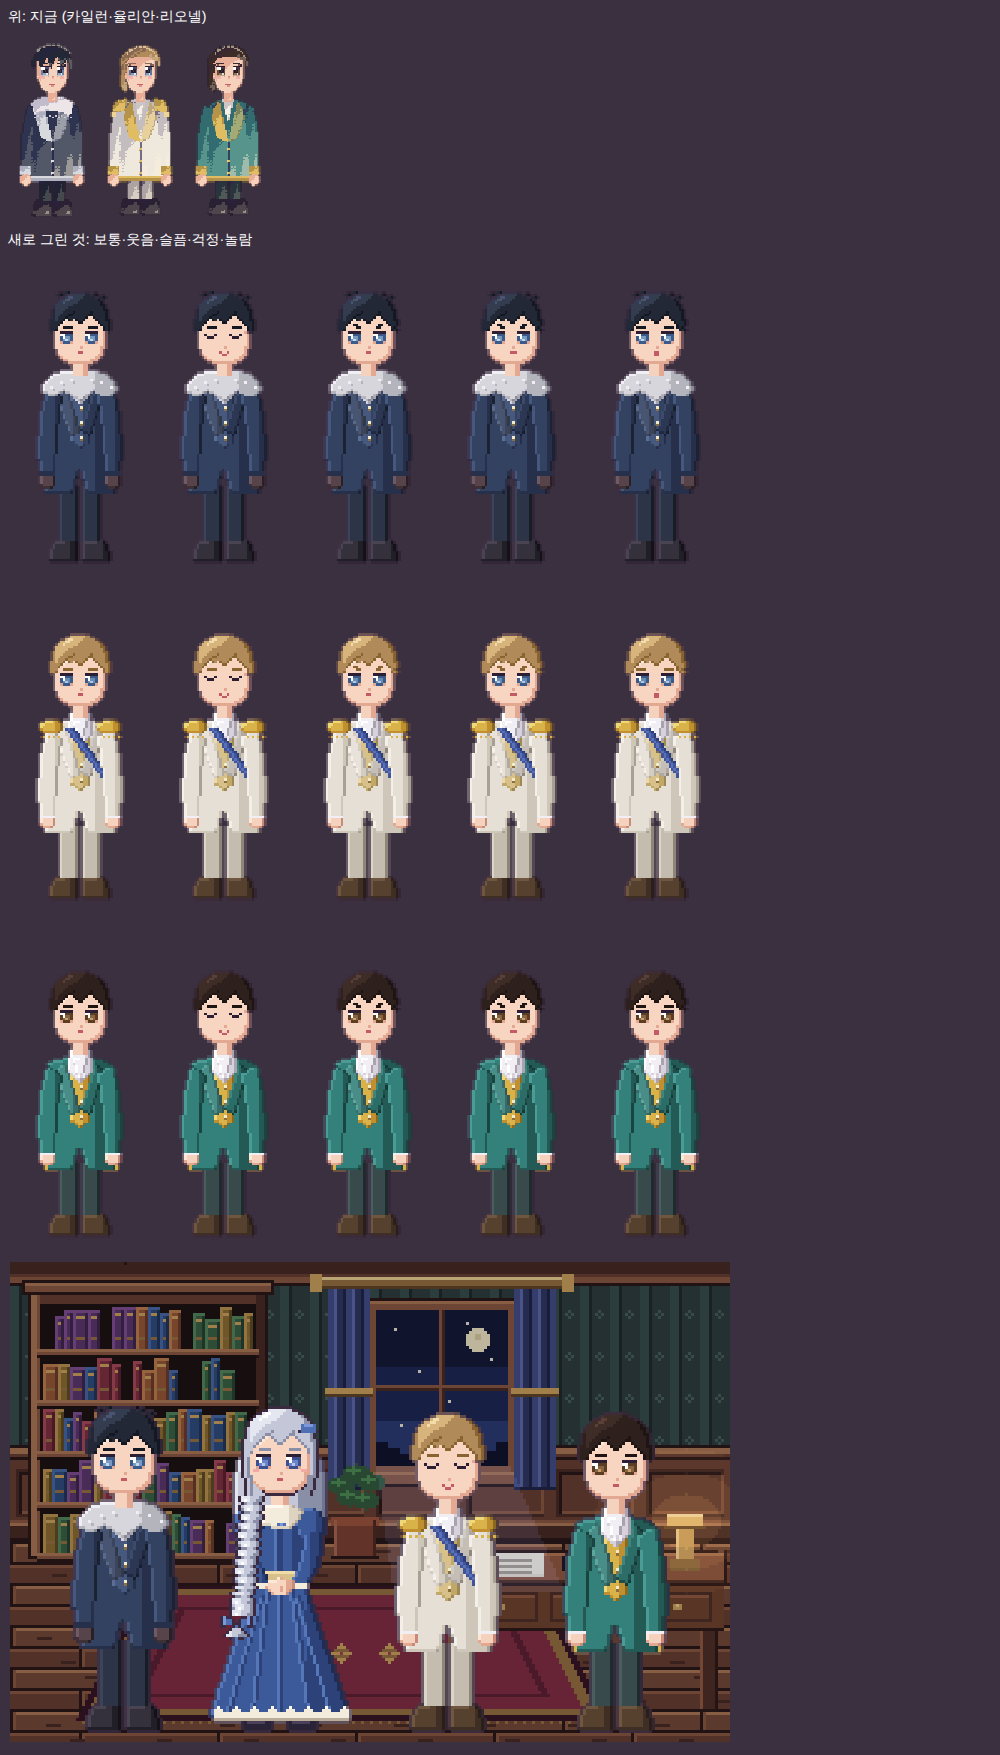
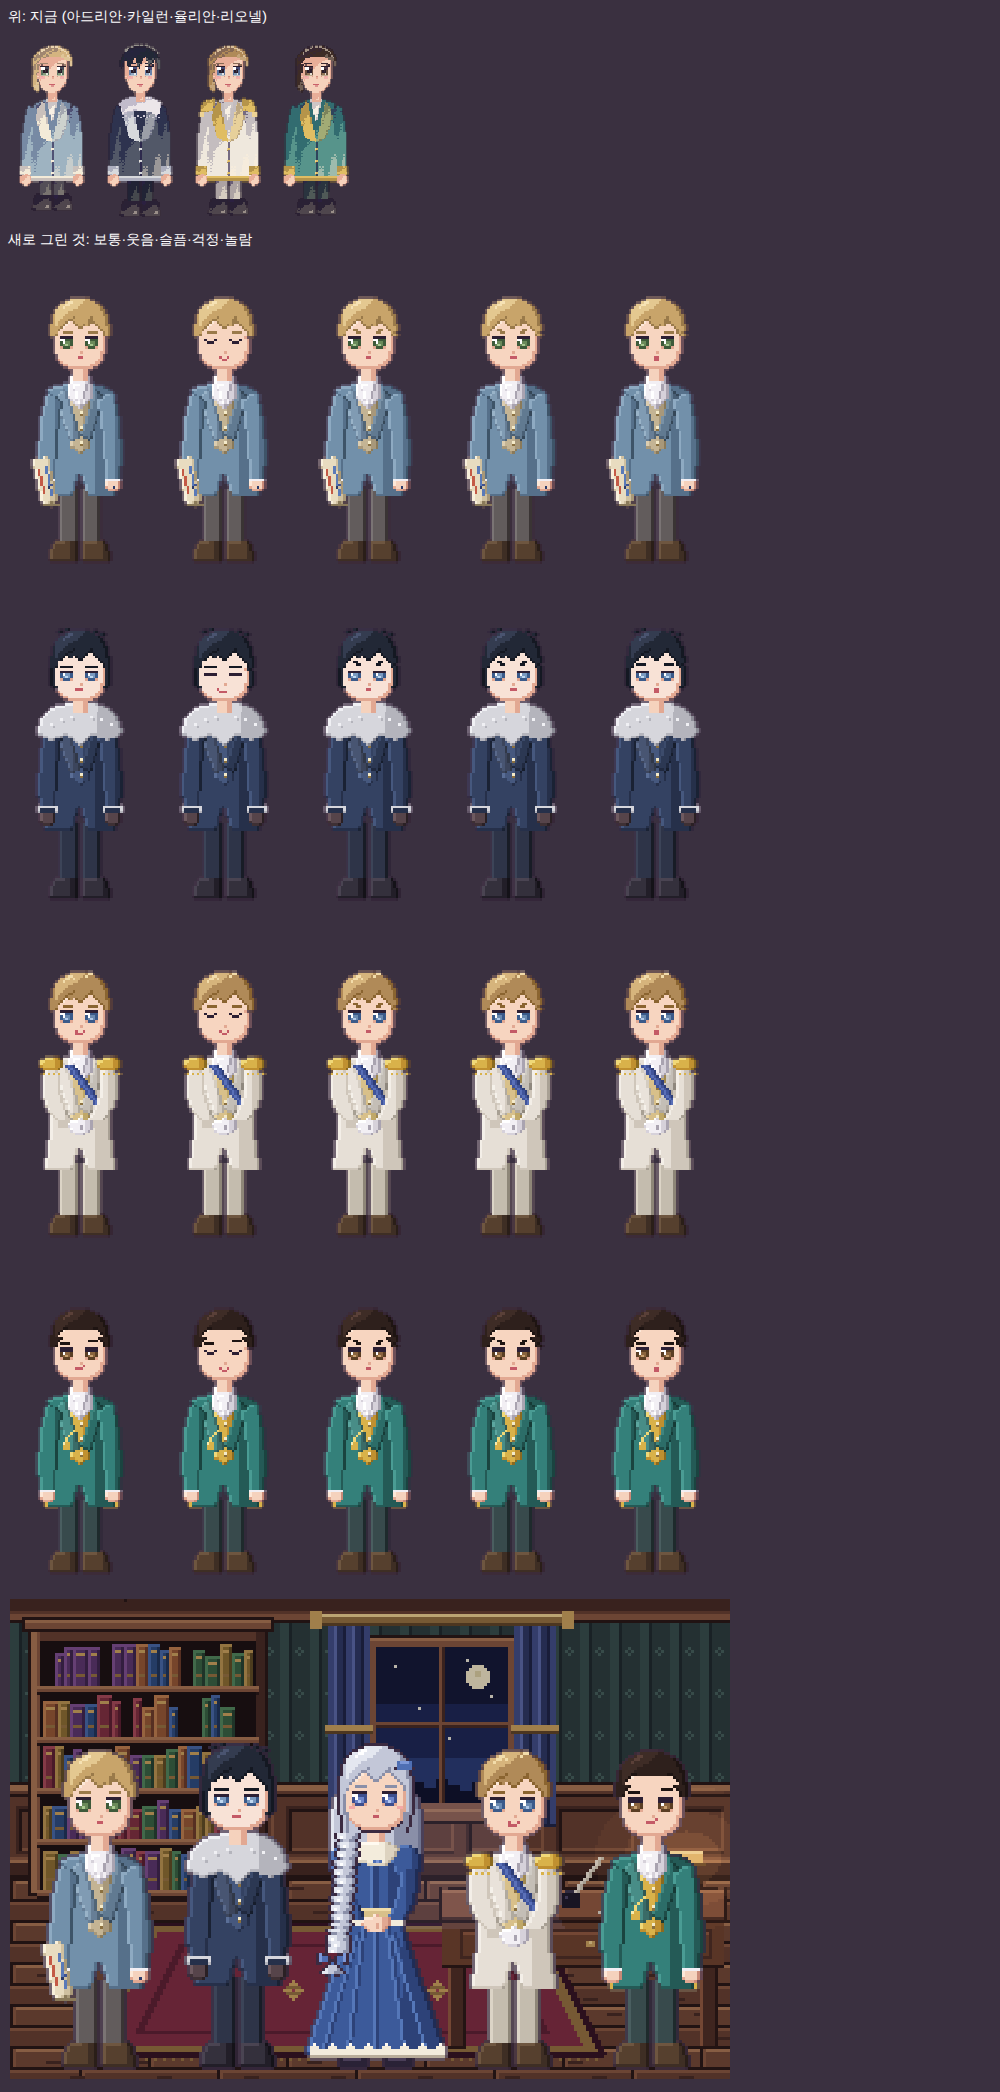
새 그림체: 소년들 얼굴·특징 차이 (카일런·율리안·리오넬·아드리안, wip)
Claude-Session: https://claude.ai/code/session_01NzQUDDCoPt1Z4eH1vzoWiG

diff --git a/wip/more3.js b/wip/more3.js
@@ -75,14 +75,35 @@ function femSprite(id,expr){ const cfg=FEM_FIG[id]; const o=PX(56,132); femBody(
 // ── 소년들: 아이 얼굴 지도(아델라인 것) + 짧은 머리, 외투. 아드리안·카일런·율리안·리오넬
 const BOY_FIG={
  adrian:{hair:['#9a7a4a','#c8a46a','#e4c890','#f6e2b4'],eye:['#3e5a3a','#6a8a5a','#a8c890'],lock:'r',
-   coat:['#3e5468','#56708a','#7290aa','#8eaac2','#b0c8da'],vest:['#8a7a5a','#a8987a','#c4b494','#dccdb0'],pants:['#3a3434','#4e4848','#625c5c','#7a7474'],boots:['#2a1e18','#3e2e24','#56402e','#6e5640'],btn:'#e8d6a8',ink:true},
+   coat:['#3e5468','#56708a','#7290aa','#8eaac2','#b0c8da'],vest:['#8a7a5a','#a8987a','#c4b494','#dccdb0'],pants:['#3a3434','#4e4848','#625c5c','#7a7474'],boots:['#2a1e18','#3e2e24','#56402e','#6e5640'],btn:'#e8d6a8',ink:true,map:true},
  kylen:{hair:['#141822','#222836','#343c50','#4a5470'],eye:['#3a5a8a','#7a9ac0','#c0d8f0'],lock:'l',tuft:true,
-   coat:['#1a2234','#26304a','#344262','#46587e','#5a6e96'],vest:['#26304a','#344262','#46587e','#5a6e96'],pants:['#181c26','#22283a','#2e3448','#3c4458'],boots:['#141218','#221e28','#34303c','#4a4452'],btn:'#b8c0d0',fur:['#8a8a94','#b4b4bc','#d6d6dc','#f0f0f4'],gloves:['#2a2024','#3e3034','#56444a','#6e5a60']},
+   coat:['#1a2234','#26304a','#344262','#46587e','#5a6e96'],vest:['#26304a','#344262','#46587e','#5a6e96'],pants:['#181c26','#22283a','#2e3448','#3c4458'],boots:['#141218','#221e28','#34303c','#4a4452'],btn:'#b8c0d0',fur:['#8a8a94','#b4b4bc','#d6d6dc','#f0f0f4'],gloves:['#2a2024','#3e3034','#56444a','#6e5a60'],face:'kylen',skin:'#f8e2d6',sidehair:true},
  julian:{hair:['#8a6430','#b08a58','#d6b47c','#f2dcaa'],eye:['#3a5a8a','#6a8ab0','#b0c8e8'],lock:'l',
-   coat:['#a8a094','#cfc6ba','#e6dfd6','#f4efe8','#ffffff'],vest:['#a08850','#c0a868','#d8c08a','#ecd8a8'],pants:['#8e8678','#aaa294','#c4bcae','#dcd4c6'],boots:['#2a1e18','#3e2e24','#56402e','#6e5640'],btn:'#d9b24a',epaulet:['#8a6a20','#c09030','#d9b24a','#f0d878'],sash:['#2e3e78','#40549a','#5a70b8']},
+   coat:['#a8a094','#cfc6ba','#e6dfd6','#f4efe8','#ffffff'],vest:['#a08850','#c0a868','#d8c08a','#ecd8a8'],pants:['#8e8678','#aaa294','#c4bcae','#dcd4c6'],boots:['#2a1e18','#3e2e24','#56402e','#6e5640'],btn:'#d9b24a',epaulet:['#8a6a20','#c09030','#d9b24a','#f0d878'],sash:['#2e3e78','#40549a','#5a70b8'],face:'julian',clasp:true,curl:true},
  lionel:{hair:['#1e1412','#2e201c','#3e2c26','#5a4038'],eye:['#5a3e24','#8a643e','#c8a070'],lock:'none',
-   coat:['#1a4440','#245a56','#34807a','#4a9c94','#6ab8ae'],vest:['#8a6a20','#c09030','#d9b24a','#f0d878'],pants:['#1e2a2c','#2a3a3c','#384a4c','#4a5e60'],boots:['#2a1e18','#3e2e24','#56402e','#6e5640'],btn:'#d9b24a',trim:'#d9b24a'}
+   coat:['#1a4440','#245a56','#34807a','#4a9c94','#6ab8ae'],vest:['#8a6a20','#c09030','#d9b24a','#f0d878'],pants:['#1e2a2c','#2a3a3c','#384a4c','#4a5e60'],boots:['#2a1e18','#3e2e24','#56402e','#6e5640'],btn:'#d9b24a',trim:'#d9b24a',face:'lionel',chain:true}
 };
+// 얼굴 차이: 눈(16~20행, 두 눈 같은 무늬), 눈썹(13~15행), 입(23~25행)
+function eyeRows(rows,m){ for(const j in m){ const r=rows[j].split(''); for(let i=0;i<5;i++){ r[6+i]=m[j][i]; r[16+i]=m[j][i]; } rows[j]=r.join(''); } }
+function setAt(rows,j,col,str){ rows[j]=rows[j].slice(0,col)+str+rows[j].slice(col+str.length); }
+function boyFace(rows,who,expr){
+  const closed=expr==='smile';
+  if(who==='kylen'){   // 가늘고 낮은 눈, 곧은 눈썹, 다문 입
+    if(!closed) eyeRows(rows,{16:'SSSSS',17:'eeeee',18:'bwBBb',19:'bBcBb',20:'sbbbs'});
+    else eyeRows(rows,{16:'SSSSS',17:'SSSSS',18:'eeeee',19:'SSSSS',20:'SSSSS'});
+    if(expr==='neutral'||expr==='smile'){ setAt(rows,13,5,'SSSSSSSSSSSSSSSSS'); setAt(rows,14,5,'SSSSSSSSSSSSSSSSSS'); setAt(rows,15,6,'hhhhh'); setAt(rows,15,16,'hhhhh'); }
+    if(expr==='neutral') setAt(rows,24,12,'mmm');
+    if(expr==='smile'){ setAt(rows,24,10,'SSSSSSSS'); setAt(rows,25,12,'mmm'); setAt(rows,24,11,'m'); }
+  }
+  if(who==='julian'){  // 높은 눈썹, 늘 웃는 듯한 입
+    if(expr==='neutral'){ setAt(rows,24,11,'SmSSmS'); setAt(rows,25,12,'mmm'); }
+  }
+  if(who==='lionel'){  // 무거운 눈꺼풀, 한쪽 눈썹·입꼬리
+    if(!closed&&expr!=='surprise') eyeRows(rows,{16:'eeeee',17:'eeeee',18:'bwBBb',19:'bBcBb',20:'sbbbs'});
+    if(expr==='neutral'||expr==='smile'){ setAt(rows,14,5,'SSSSSSSSSSSSSSSSSS'); setAt(rows,14,6,'hhhh'); setAt(rows,13,17,'hhhh'); }
+    if(expr==='neutral'){ setAt(rows,24,12,'mmm'); setAt(rows,23,15,'m'); }
+  }
+}
 function boySprite(id,expr){
   const f=BOY_FIG[id]; const o=PX(56,132); const SK=['#c98a78','#e2a892','#f5d2bd','#fde8d8'], WH=['#a9a3b0','#d6d1da','#f2eff4','#ffffff'];
   const C=f.coat, PT=f.pants, fy=124, BT=f.boots;
@@ -95,21 +116,27 @@ function boySprite(id,expr){
   celPath(o,'M24 32 L32 32 L33 40 L28 45 L23 40 Z',WH); celPath(o,'M25 35 L31 35 L30 40 L28 45 L26 40 Z',WH);
   celPath(o,'M22 37 L28 56 L24 58 L18 41 Z',C.map(c=>mix(c,'#ffffff',.1))); celPath(o,'M34 37 L28 56 L32 58 L38 41 Z',C.map(c=>mix(c,'#000000',.15)));
   [[18,48],[18,58],[38,48],[38,58]].forEach(p=>o.p(p[0],p[1],f.btn));
-  if(f.sash){ for(let k=0;k<22;k++){ const x=22+Math.round(k*.75), y=38+k; o.p(x,y,f.sash[1]); o.p(x+1,y,f.sash[2]); o.p(x+2,y,f.sash[1]); o.p(x+3,y,f.sash[0]); } }
-  celPath(o,'M15 38 C11 50 11 64 12 78 L18 78 C18 66 19 52 21 42 Z',C); celPath(o,'M41 38 C45 50 45 64 44 78 L38 78 C38 66 37 52 35 42 Z',C);
+  if(f.sash){ for(let k=0;k<17;k++){ const x=22+Math.round(k*.75), y=38+k; o.p(x,y,f.sash[1]); o.p(x+1,y,f.sash[2]); o.p(x+2,y,f.sash[1]); o.p(x+3,y,f.sash[0]); } }
+  if(f.clasp){ celPath(o,'M15 38 C11 46 12 56 22 63 L26 61 C21 56 19 50 20 41 Z',C); celPath(o,'M41 38 C45 46 44 56 34 63 L30 61 C35 56 37 50 36 41 Z',C); }
+  else { celPath(o,'M15 38 C11 50 11 64 12 78 L18 78 C18 66 19 52 21 42 Z',C); celPath(o,'M41 38 C45 50 45 64 44 78 L38 78 C38 66 37 52 35 42 Z',C); }
   if(f.epaulet){ celPath(o,'M12 37 C14 34 19 34 21 37 L20 40 L13 40 Z',f.epaulet); celPath(o,'M44 37 C42 34 37 34 35 37 L36 40 L43 40 Z',f.epaulet);
     [13,15,17,19].forEach(x=>{ o.p(x,41,f.epaulet[2]); o.p(56-x,41,f.epaulet[2]); }); }
-  if(f.fur){ celPath(o,'M13 40 C14 33 21 31 28 33 C35 31 42 33 43 40 C40 43 36 42 34 40 L28 44 L22 40 C20 42 16 43 13 40 Z',f.fur);
+  if(f.fur){ celPath(o,'M11 42 C12 32 21 29 28 31 C35 29 44 32 45 42 C41 46 36 45 34 42 L28 47 L22 42 C20 45 15 46 11 42 Z',f.fur); o.r(11,74,8,4,f.fur[2]); o.r(37,74,8,4,f.fur[2]); o.r(11,77,8,1,f.fur[1]); o.r(37,77,8,1,f.fur[1]);
     [[16,38],[20,36],[24,35],[32,35],[36,36],[40,38]].forEach(p=>{ o.p(p[0],p[1],f.fur[3]); o.p(p[0]+1,p[1]+1,f.fur[1]); }); }
-  if(f.gloves){ o.r(12,76,6,3,C[1]); o.r(38,76,6,3,C[1]); celPath(o,'M12 78 L18 78 L18 83 C17 86 13 86 12 83 Z',f.gloves); celPath(o,'M38 78 L44 78 L44 83 C43 86 39 86 38 83 Z',f.gloves); }
+  if(f.clasp){ o.r(19,60,5,3,C[1]); o.r(32,60,5,3,C[1]);
+    celPath(o,'M23 61 C25 59 31 59 33 61 C33 65 30 67 28 67 C26 67 23 65 23 61 Z',WH); o.p(28,62,WH[0]); o.p(28,63,WH[0]); o.p(30,61,WH[1]); }
+  else if(f.gloves){ o.r(12,76,6,3,C[1]); o.r(38,76,6,3,C[1]); celPath(o,'M12 78 L18 78 L18 83 C17 86 13 86 12 83 Z',f.gloves); celPath(o,'M38 78 L44 78 L44 83 C43 86 39 86 38 83 Z',f.gloves); }
   else { o.r(12,77,6,2,WH[2]); o.r(38,77,6,2,WH[2]);
     celPath(o,'M12 79 L18 79 L18 83 C17 86 13 86 12 83 Z',SK); celPath(o,'M38 79 L44 79 L44 83 C43 86 39 86 38 83 Z',SK); }
+  if(f.chain){ [[25,49],[24,50],[23,51],[22,52],[22,53],[23,54]].forEach(p=>o.p(p[0],p[1],'#f0d878')); o.r(21,54,3,3,'#d9b24a'); o.p(21,54,'#f8ecb0'); }
+  if(f.map){ celPath(o,'M9 66 L15 64 L19 92 L13 94 Z',['#a89878','#cfc0a0','#e8dcc0','#f8f0dc']); o.ell(16,93,3,1,'#8a7a5a'); o.line(11,72,13,86,'#c45a46'); o.line(14,70,16,88,'#5a7ab8'); }
   if(f.ink){ o.p(14,82,'#2a3a6a'); o.p(15,83,'#2a3a6a'); o.p(16,81,'#3e5290'); o.p(41,83,'#2a3a6a'); }   // 잉크 자국
   o.r(25,28,6,6,SK[2]); o.r(29,28,2,6,SK[1]);
   // 머리: 아델라인 얼굴 지도에서 옆머리·윤곽선을 걷어 내고 짧게
-  const pal=Object.assign({},ADE_PAL,{h:f.hair[0],H:f.hair[1],L:f.hair[2],W:f.hair[3],b:f.eye[0],B:f.eye[1],c:f.eye[2],r:'#f2b8aa'});
+  const pal=Object.assign({},ADE_PAL,{h:f.hair[0],H:f.hair[1],L:f.hair[2],W:f.hair[3],b:f.eye[0],B:f.eye[1],c:f.eye[2],r:'#f2b8aa'}); if(f.skin) pal.S=f.skin;
   const rows=ADE_HEAD.slice(); const ex=ADE_EXPR[expr]; if(ex) for(const k in ex) rows[k]=ex[k];
   rows[21]=rows[21].replace(/rr/g,'SS');
+  if(f.face) boyFace(rows,f.face,expr||'neutral');
   const face=/[SsKebBcwrm]/;
   const out=rows.map((row,j)=>{ let r=row.replace(/O/g,'.'); if(j<16) return r;
     const a=r.search(face); let z=-1; for(let i=r.length-1;i>=0;i--) if(face.test(r[i])){ z=i; break; }
@@ -118,7 +145,10 @@ function boySprite(id,expr){
   // 앞머리 한 갈래
   if(f.lock==='r'){ out[10]=out[10].slice(0,15)+'HHhh'+out[10].slice(19); out[11]=out[11].slice(0,16)+'Hh'+out[11].slice(18); }
   if(f.lock==='l'){ out[10]=out[10].slice(0,8)+'hHHH'+out[10].slice(12); out[11]=out[11].slice(0,9)+'hH'+out[11].slice(11); }
+  if(f.face==='lionel'){ out[8]=out[8].slice(0,7)+'hhHHHHHHHHHHhh'+out[8].slice(21); out[9]=out[9].slice(0,6)+'hKSSSSSSSSSSSSSh'+out[9].slice(22); out[10]=out[10].slice(0,5)+'hSSSSSSSSSSSSSSSSh'+out[10].slice(23); out[11]=out[11].slice(0,5)+'SSSSSSSSSSSSSSSSSS'+out[11].slice(23); out[12]=out[12].slice(0,7)+'SSSSSSSSSSSSSS'+out[12].slice(21); }
+  if(f.sidehair){ for(let j=16;j<24;j++){ const r=out[j].split(''); const a=r.findIndex(c=>c!=='.'); let z=r.length-1; while(z>0&&r[z]==='.') z--; if(a>0){ r[a-1]='H'; if(a>1) r[a-2]='h'; } if(z<r.length-1){ r[z+1]='H'; if(z+2<r.length) r[z+2]='h'; } out[j]=r.join(''); } }
   stampMap(o,out,14,0,pal);
+  if(f.curl){ [[22,3],[23,2],[24,2],[25,3],[30,2],[31,1],[32,1]].forEach(p=>o.p(p[0],p[1],f.hair[3])); o.p(17,13,f.hair[1]); o.p(16,14,f.hair[1]); }
   if(f.tuft){ [[19,1],[22,0],[33,1],[36,2]].forEach(p=>{ o.p(p[0],p[1],f.hair[1]); o.p(p[0]+1,p[1],f.hair[0]); }); }
   outlinePass(o);
   return {c:o.c,feet:fy};

diff --git a/wip/batch2_view.js b/wip/batch2_view.js
@@ -5,13 +5,13 @@ const fs=require('fs'); const SP=__dirname;
 (async()=>{ const b=await puppeteer.launch(await launchOpts()); const p=await b.newPage(); const errs=[]; p.on('pageerror',e=>errs.push(e.message));
   await p.setViewport({width:1000,height:700});
   await p.goto('file://'+require('path').resolve(__dirname,'../dist/game.html'));
-  const ids=['kylen','julian','lionel'];
+  const ids=['adrian','kylen','julian','lionel'];
   const old=await p.evaluate(ids=>ids.map(id=>sprite(id,'neutral').c.toDataURL()),ids);
   for(const f of ['cel.js','study2.js','ade2.js','more2.js','more3.js']) await p.addScriptTag({content:fs.readFileSync(SP+'/'+f,'utf8')});
   const E=['neutral','smile','sad','worry','surprise'];
-  const rows=await p.evaluate(E=>['kylen','julian','lionel'].map(id=>E.map(e=>kid(id,boySprite(id,e)))).map(r=>r.map(s=>s.c.toDataURL())),E);
-  const stage=await p.evaluate(()=>{ const o=PX(240,160); study2(o,seasonPal('겨울')); [[kid('kylen',boySprite('kylen','neutral')),10],[kid('adeline',adeSprite('neutral')),62],[kid('julian',boySprite('julian','smile')),118],[kid('lionel',boySprite('lionel','neutral')),174]].forEach(a=>o.x.drawImage(a[0].c,a[1],156-a[0].feet)); return o.c.toDataURL(); });
-  await p.evaluate((old,rows,stage)=>{ document.body.innerHTML='<div style="background:#3a3040;padding:8px;color:#fff;font:14px sans-serif"><div>위: 지금 (카일런·율리안·리오넬)</div><div id=a></div><div>새로 그린 것: 보통·웃음·슬픔·걱정·놀람</div><div id=b0></div><div id=b1></div><div id=b2></div><div id=c></div></div>';
+  const rows=await p.evaluate(E=>['adrian','kylen','julian','lionel'].map(id=>E.map(e=>kid(id,boySprite(id,e)))).map(r=>r.map(s=>s.c.toDataURL())),E);
+  const stage=await p.evaluate(()=>{ const o=PX(240,160); study2(o,seasonPal('겨울')); [[kid('adrian',boySprite('adrian','neutral')),2],[kid('kylen',boySprite('kylen','neutral')),48],[kid('adeline',adeSprite('neutral')),94],[kid('julian',boySprite('julian','neutral')),140],[kid('lionel',boySprite('lionel','neutral')),186]].forEach(a=>o.x.drawImage(a[0].c,a[1],156-a[0].feet)); return o.c.toDataURL(); });
+  await p.evaluate((old,rows,stage)=>{ document.body.innerHTML='<div style="background:#3a3040;padding:8px;color:#fff;font:14px sans-serif"><div>위: 지금 (아드리안·카일런·율리안·리오넬)</div><div id=a></div><div>새로 그린 것: 보통·웃음·슬픔·걱정·놀람</div><div id=b0></div><div id=b1></div><div id=b2></div><div id=b3></div><div id=c></div></div>';
     const put=(el,arr,w,h)=>arr.forEach(u=>{ const i=new Image(); i.src=u; i.style.cssText='width:'+w+'px;height:'+h+'px;image-rendering:pixelated;margin:2px'; document.getElementById(el).appendChild(i); });
     put('a',old,84,198); rows.forEach((r,k)=>put('b'+k,r,140,330)); put('c',[stage],720,480); },old,rows,stage);
   await p.screenshot({path:process.argv[2],fullPage:true}); console.log('errors',errs.join('|')||'none'); await b.close(); })();

diff --git a/wip/README.md b/wip/README.md
@@ -15,4 +15,5 @@
 ## 사용자 결정 (2026-10-02)
 - 홀트 선생님은 **안경 없음**, "엄격하지만 다정하게": 곧은 눈썹 + 살짝 올린 입꼬리, 따뜻한 갈색 눈.
 - 아이 키·마르타는 사용자 확인함.
+- 소년들은 얼굴에도 차이를 둔다 (`boyFace`): 카일런 가는 눈·곧은 눈썹·긴 옆머리·두꺼운 털깃·장갑, 율리안 웃는 입매·흰 장갑 낀 손을 모은 자세·견장·어깨띠, 리오넬 넘긴 머리·무거운 눈꺼풀·한쪽 눈썹과 입꼬리·회중시계 줄, 아드리안 말아 쥔 지도·잉크 자국.
 - 아이는 어른보다 **작게**. 비율 축소 대신 머리는 그대로 두고 다리·치마 줄을 빼서 키를 낮춘다(`shrinkKid`, `KID` 표: 아델라인·아드리안 18줄, 탠지(13세) 10줄). 정식 반영 때 `sprite()` 안에서 적용.
